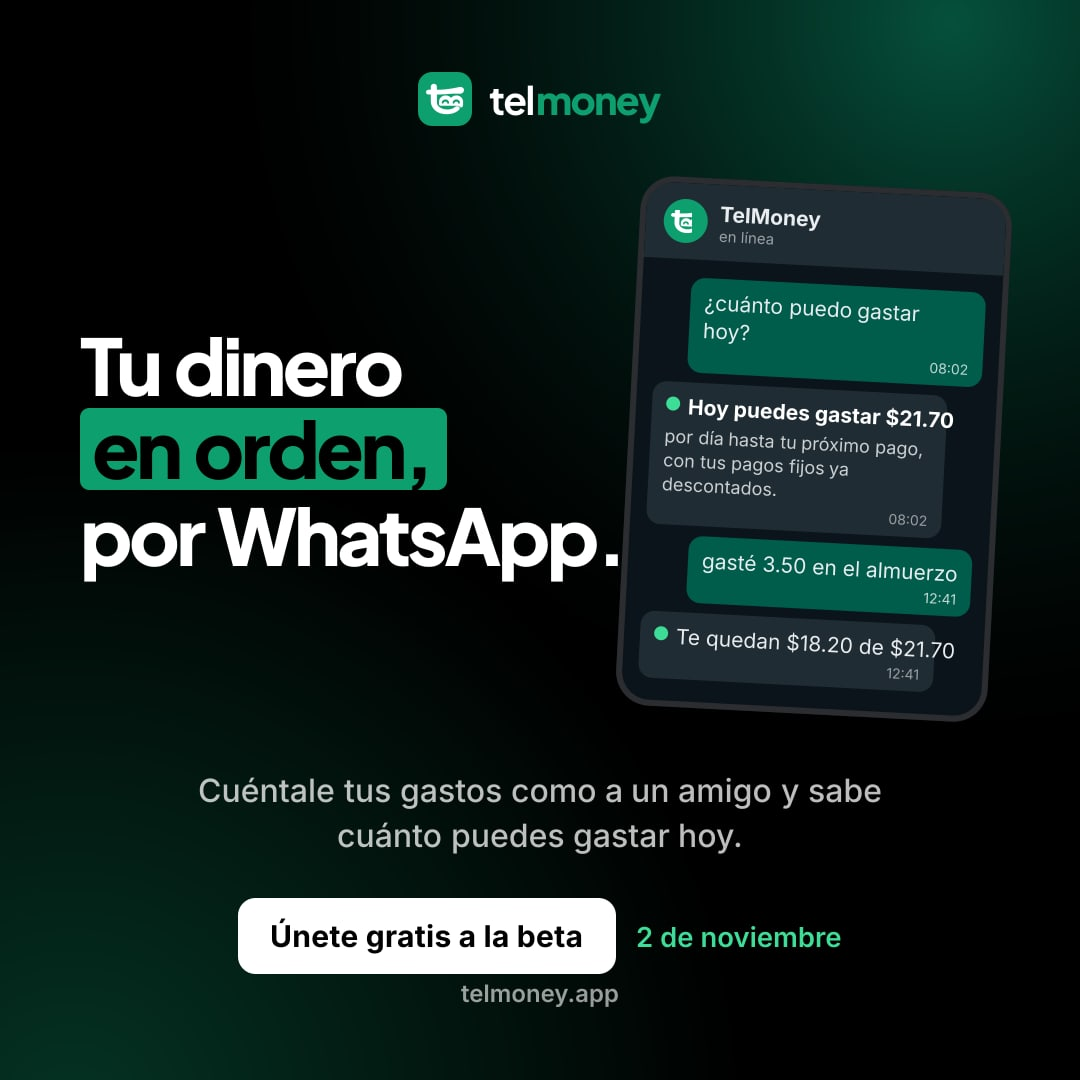
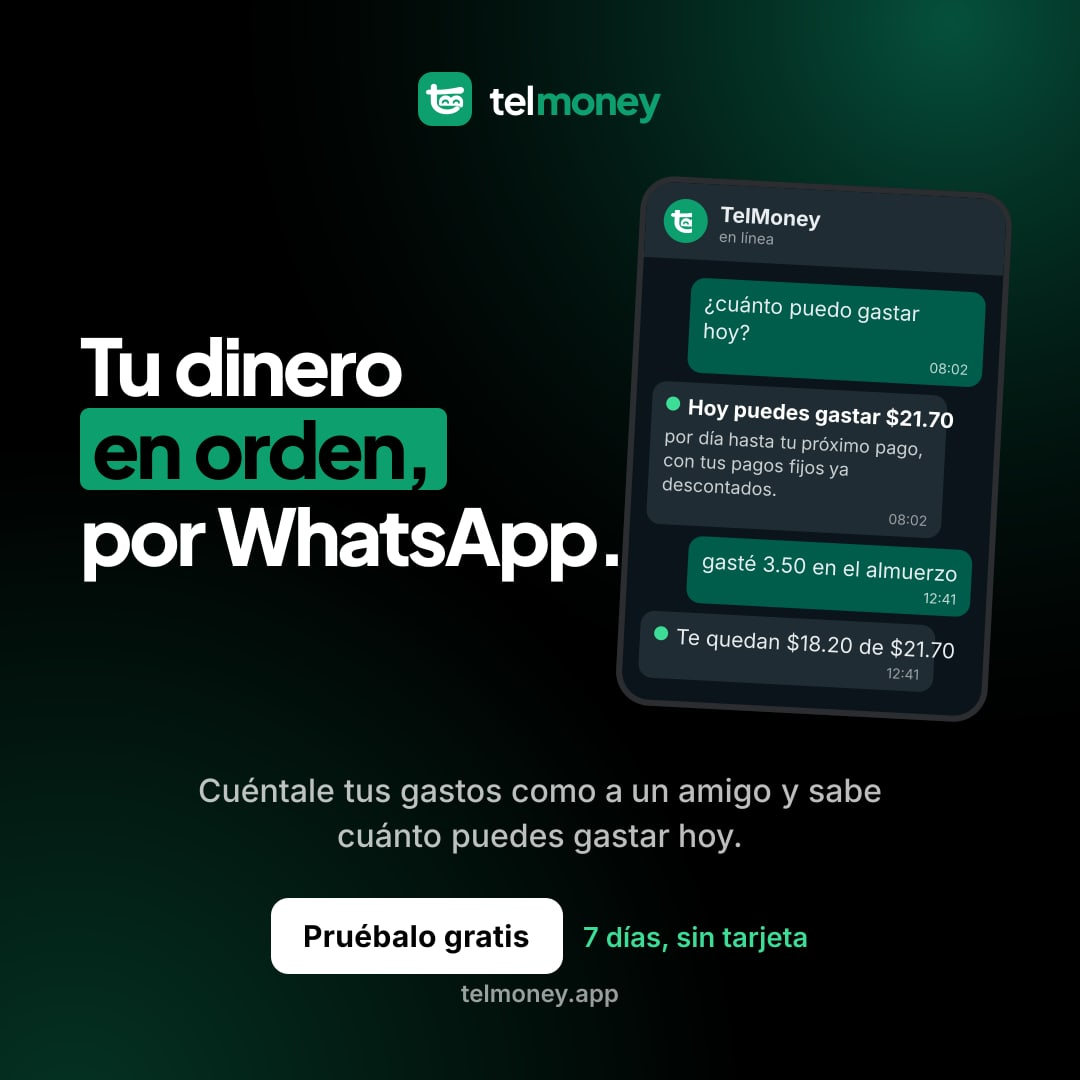
fix(og): imagen para compartir con "Pruébalo gratis · 7 días, sin tarjeta" en vez de la beta

Changed region(s): [[0.2139, 0.825, 0.7944, 0.9167]]

diff --git a/src/seo/meta.ts b/src/seo/meta.ts
@@ -32,7 +32,7 @@ export const SEO = {
    *  Se genera con "npm run og" (scripts/og.mjs). Si cambia el diseño, sube el número de ?v=
    *  para que WhatsApp y Facebook no sigan mostrando la versión vieja guardada en caché. */
   image: {
-    path: '/og/telmoney-og.jpg?v=4',
+    path: '/og/telmoney-og.jpg?v=5',
     width: 1200,
     height: 630,
     type: 'image/jpeg',
